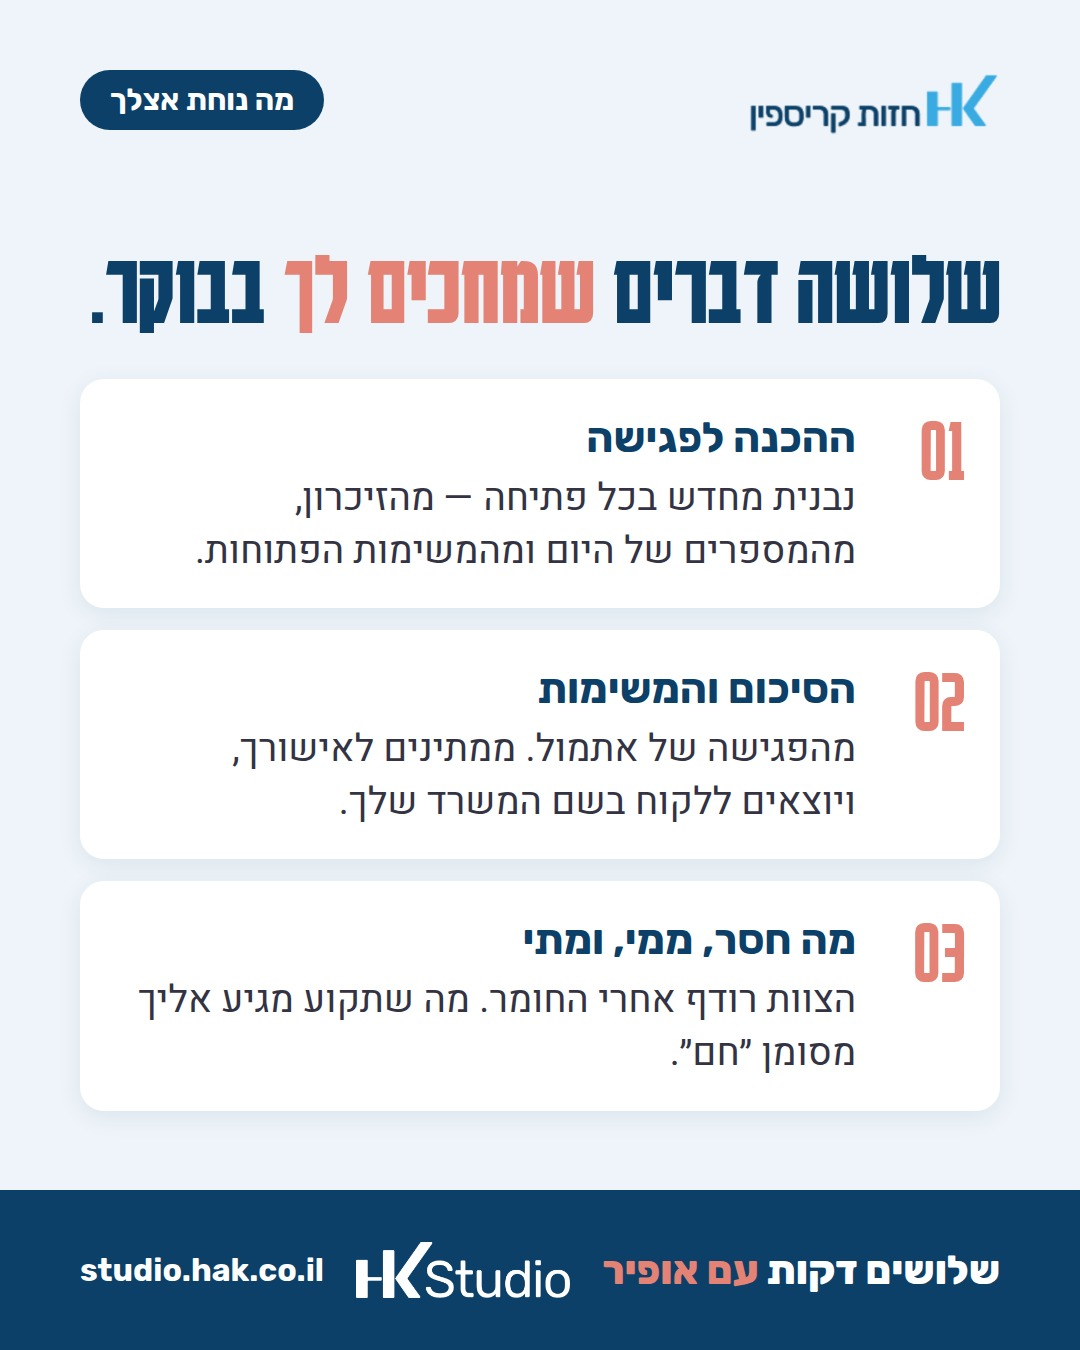
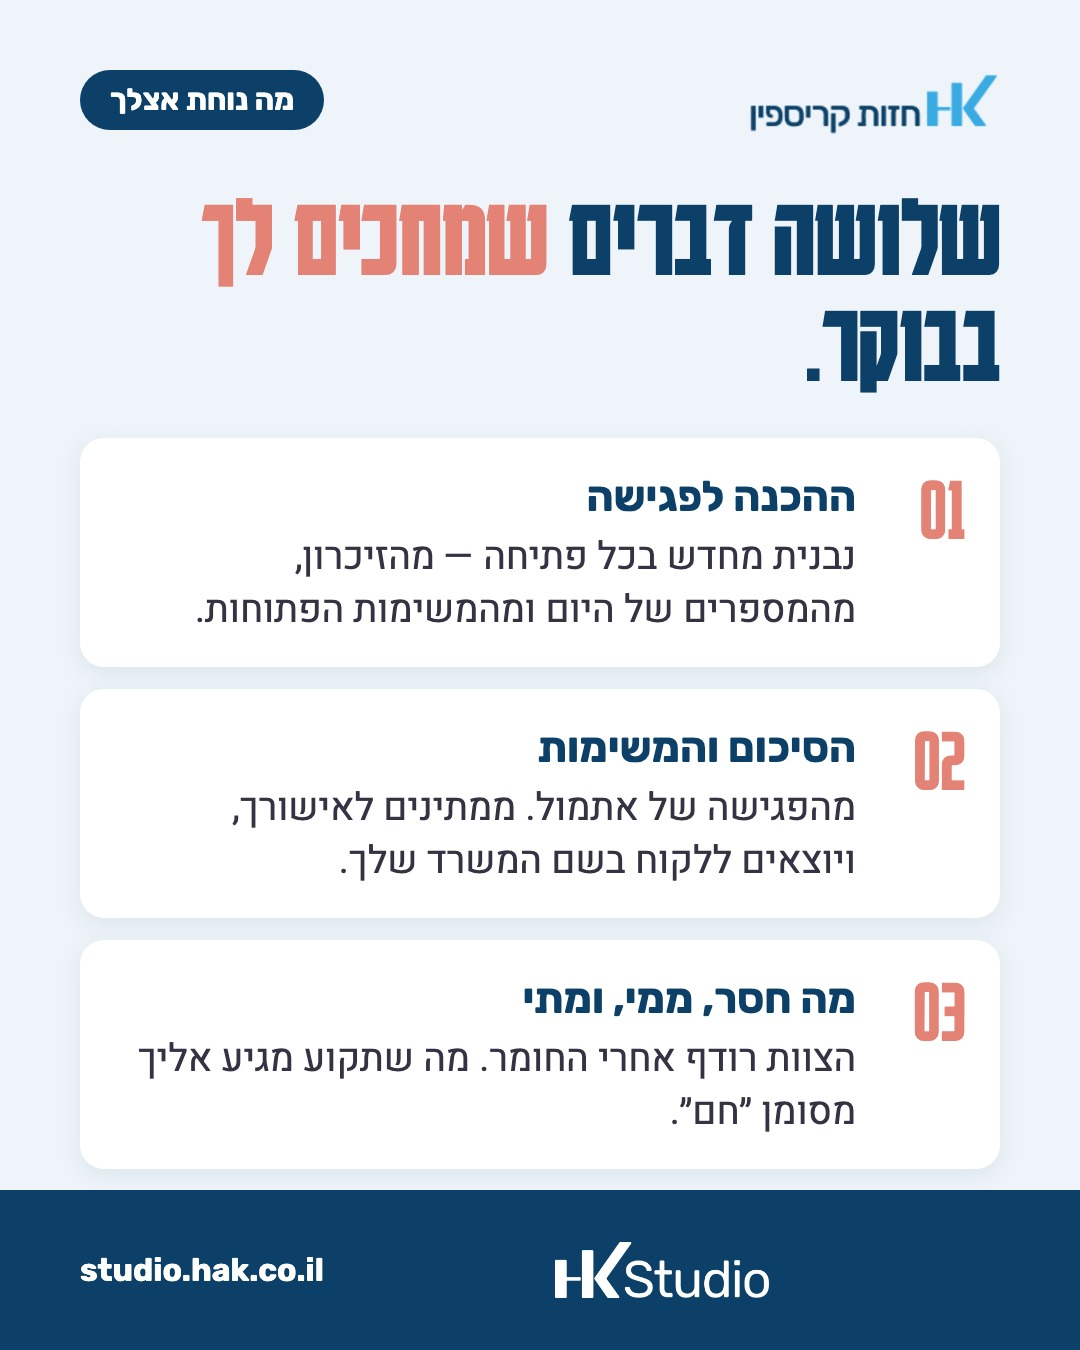
סטודיו: בלי "שלושים דקות עם אופיר" בפס התחתון של התמונה (אייל, 27.09)
ההנעה נשארת בכיתוב בלבד. cta=" " עד שהתבנית תתמוך ב-cta ריק.

diff --git a/content/guidelines-studio.md b/content/guidelines-studio.md
@@ -32,7 +32,7 @@
 
 ## מבנה פוסט
 - לוגו: `"logo": "studio"` (HK Studio בפס התחתון). הפינה נשארת "HK חזות קריספין" — אותה חברה.
-- הנעה לפעולה קבועה: `"cta": "שלושים דקות <span>עם אופיר</span>"`. בכיתוב: "שלושים דקות עם אופיר — הקישור בביו."
+- **בלי הנעה לפעולה בתמונה** (אייל, 27.09): `"cta": " "` — הפס התחתון מציג רק לוגו וכתובת. ההנעה נשארת בכיתוב בלבד: "שלושים דקות עם אופיר — הקישור בביו."
 - כותרת עד 8 מילים, `<em>` למילה אחת. כיתוב 3–6 שורות. 5–8 האשטגים.
 
 ## מותר (מאומת מול הבריפים ומול הקוד)
